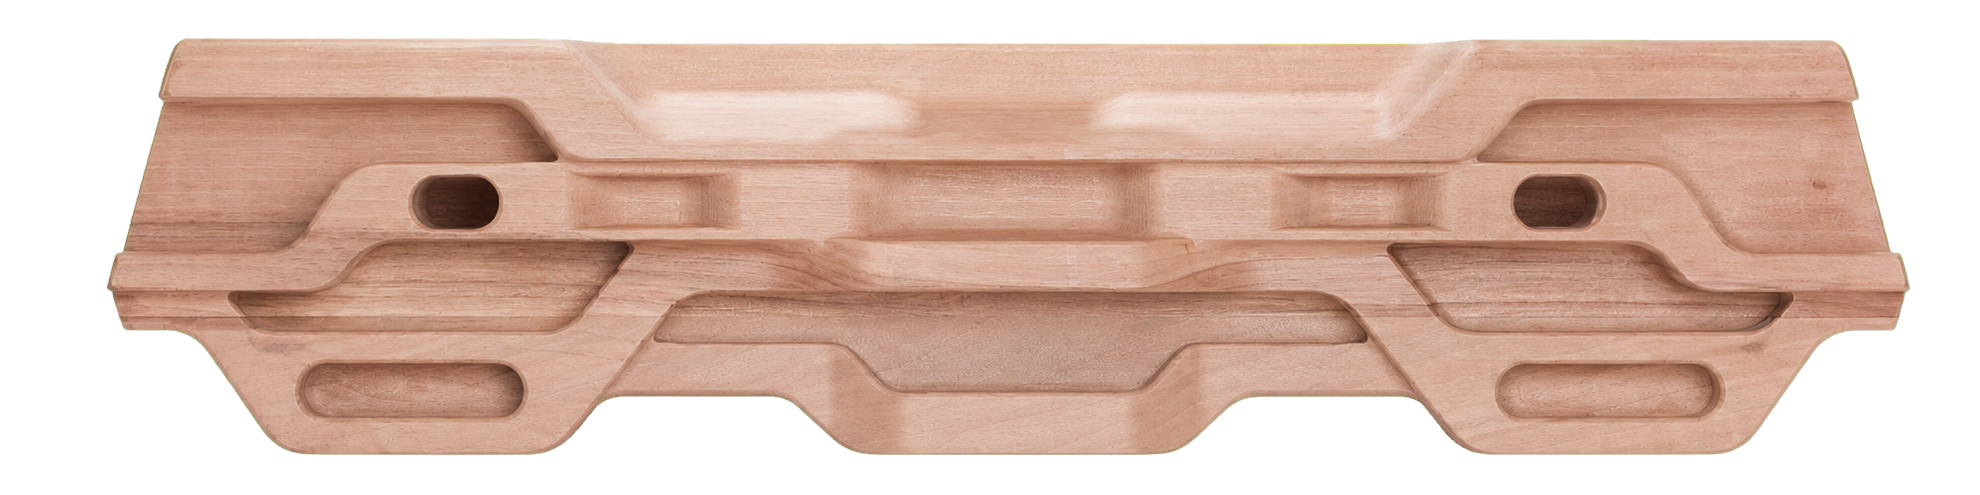
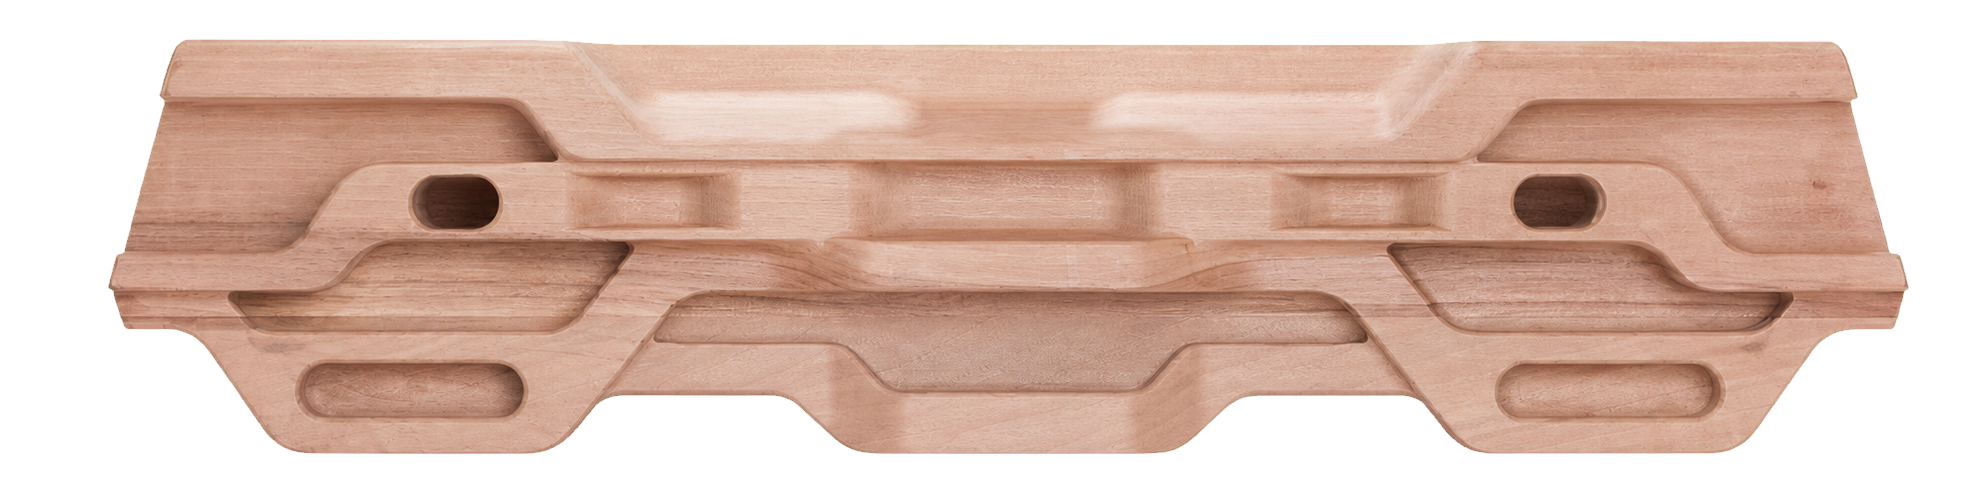
Clean Mammut Diamond alpha fringe

diff --git a/docs/source-audits/2026-08-27-mammut-diamond-finger-board-package.md b/docs/source-audits/2026-08-27-mammut-diamond-finger-board-package.md
@@ -40,7 +40,7 @@ Backcountry lists 2 jugs, 2 45 mm flat slopers, 1 48 mm flat sloper, 2 30 mm fla
 
 `assets/primary.png` is a new 1980 x 495 transparent-canvas, straight-on photorealistic light-walnut product rendering, not a copied manufacturer or retailer photograph. The final asset was created with the built-in image-generation edit workflow. Mammut's official `2060-00020-7458_main_75743.jpg` was Image 1 and the edit target controlling the exact wooden silhouette, stepped body, carved shelves, rails, pockets, recesses, and spacing. The superseded generated package asset was Image 2 and only a broad reference for polished natural-wood catalog styling; the prompt explicitly prohibited copying its invented grid layout. The permitted edits removed the phone cradle/bracket, rear black mounting hardware, brand plate/logo/text, and orange indicator inserts; reconstructed only the small occluded wood areas; corrected the near-front product view minimally toward orthographic; and replaced the backdrop with chroma key. The prompt prohibited adding, deleting, subdividing, relocating, regularizing, or symmetrically redesigning any physical contact.
 
-The selected generated output used a flat chroma-key backdrop. The installed image-generation helper removed that backdrop with border sampling, soft matte, and despill. The operator then made one explicit canvas crop (`1980 x 495`, offset `x: 1`, `y: 150`) to preserve the package's exact 4:1 presentation ratio; no image analysis or automatic cropping selected that rectangle. The final primary is the newly generated render, not a copied or cropped source photograph.
+The selected generated output used a flat chroma-key backdrop. The installed image-generation helper removed that backdrop with border sampling, soft matte, despill, and a one-pixel edge contract; a final 97-pixel partial-alpha chroma despill pass neutralized the remaining green-biased edge pixels without changing alpha or physical layout. The operator then made one explicit canvas crop (`1980 x 495`, offset `x: 1`, `y: 150`) to preserve the package's exact 4:1 presentation ratio; no image analysis or automatic cropping selected that rectangle. The final primary is the newly generated render, not a copied or cropped source photograph.
 
 Each canonical normalized region was directly reviewed and authored against the final asset and the official Mammut image. Bilateral pairs use exact mirrored frames and mirrored freeform commands where the product is physically symmetric. Regular deep and shallow pockets/slopers have manually selected pill or rounded-rectangle constraints; the sculpted outer panels, middle rail, lower channels, transitions, and center lower feature use separately written freeform paths. A first labeled Workbench capture exposed overlapping schematic-era bands, so the operator deliberately tightened those saved paths onto the manufacturer-visible contact zones and repeated the labeled capture review. Saved canonical geometry remains the render, highlight, and hit-test source. Image generation produced presentation art only; it did not produce or infer geometry. No image-driven detection, segmentation, contour extraction, registration, vectorization, simplification, automatic cropping, or generated geometry was used.
 
